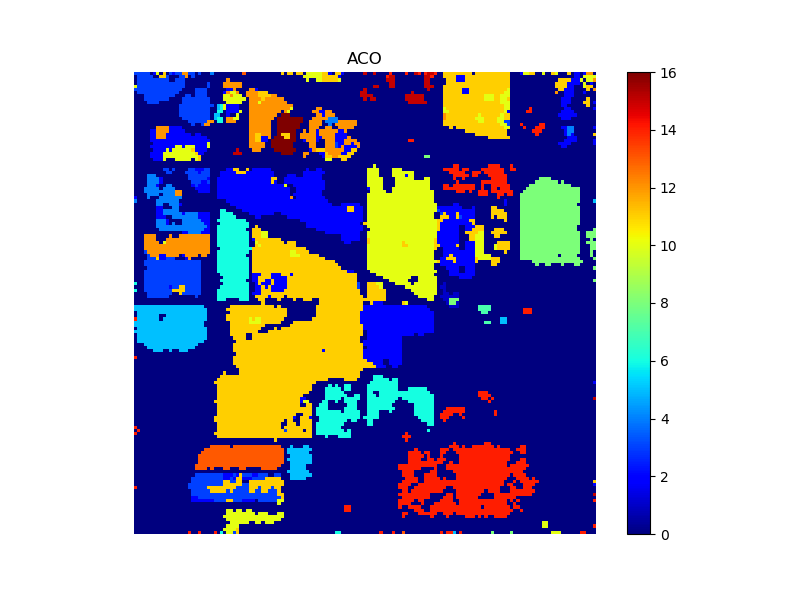
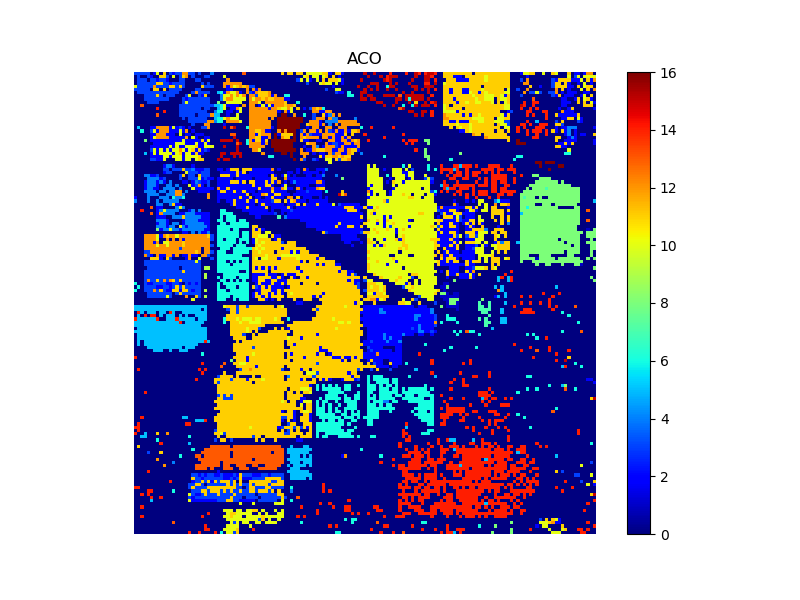
Non-Functional Chages

diff --git a/Auxiliary_Methods.py b/Auxiliary_Methods.py
@@ -60,31 +60,56 @@ def scores(df, y_test_flat, y_pred_flat):
     
     
 def show_gt_classifierMap_ACOMap(df, X, clmap, aco_bool = False, aco_map = None):
-    plt.figure(figsize=(8, 6))
-    plt.imshow(df.iloc[:, -1].values.reshape((X.shape[0], X.shape[0])), cmap='jet')
-    plt.colorbar()
-    plt.axis('off')
-    plt.title('Ground Truth')
-    plt.show()
+    # plt.figure(figsize=(8, 6))
+    # plt.imshow(df.iloc[:, -1].values.reshape((X.shape[0], X.shape[0])), cmap='jet')
+    # plt.colorbar()
+    # plt.axis('off')
+    # plt.title('Ground Truth')
+    # plt.show()
 
-    plt.figure(figsize=(8, 6))
-    plt.imshow(np.array(clmap).reshape((X.shape[0], X.shape[0])), cmap='jet')
-    plt.colorbar()
-    plt.axis('off')
-    plt.title('Classification Map (KNeighborsClassifier)')
-    plt.savefig('Classification_map.png')
-    plt.show()
+    # plt.figure(figsize=(8, 6))
+    # plt.imshow(np.array(clmap).reshape((X.shape[0], X.shape[0])), cmap='jet')
+    # plt.colorbar()
+    # plt.axis('off')
+    # plt.title('Classification Map (KNeighborsClassifier)')
+    # plt.savefig('Classification_map.png')
+    # plt.show()
+    
+    # if aco_bool == True:
+    #     plt.figure(figsize=(8, 6))
+    #     plt.imshow(np.array(aco_map), cmap='jet')
+    #     plt.colorbar()
+    #     plt.axis('off')
+    #     plt.title('ACO')
+    #     plt.savefig('Classification_map.png')
+    #     plt.show()    
+    
+    gt = df.iloc[:, -1].values.reshape((X.shape[0], X.shape[0])) 
+    classifier = np.array(clmap).reshape((X.shape[0], X.shape[0]))
+    if aco_bool == True:
+        aco = np.array(aco_map)
+    
+    rows = 1
+    cols = 3
+    axes=[]
+    fig=plt.figure(figsize=(12, 6))
+    
+    axes.append(fig.add_subplot(rows, cols, 1))
+    axes[-1].set_title("Ground Truth")  
+    plt.imshow(gt, cmap='jet')
+    
+    axes.append(fig.add_subplot(rows, cols, 2))
+    axes[-1].set_title("Classifier k-NN Result")  
+    plt.imshow(classifier, cmap='jet')
     
     if aco_bool == True:
-        plt.figure(figsize=(8, 6))
-        plt.imshow(np.array(aco_map), cmap='jet')
-        plt.colorbar()
-        plt.axis('off')
-        plt.title('ACO')
-        plt.savefig('Classification_map.png')
-        plt.show()        
-            
+        axes.append(fig.add_subplot(rows, cols, 3))
+        axes[-1].set_title("ACO Result")  
+        plt.imshow(aco, cmap='jet')
     
+    fig.tight_layout()    
+    plt.show()
+            
     
 def calcProbab(no_of_classes, i, j, k, tau, eta, alpha = 1, beta = 1):
     p = (tau[i][j][k] ** alpha) * (eta[i][j][k] ** beta)                            
@@ -96,6 +121,7 @@ def calcProbab(no_of_classes, i, j, k, tau, eta, alpha = 1, beta = 1):
     p /= summ    
     return p
         
+
 # am.update_tau_solution_based(tau[i][j][k], p[i][j][k], k, rho, deltaTau)          
 def update_tau_solution_based(tau, p, i, j, k, rho, deltaTau):
     retVal = tau            
@@ -110,6 +136,7 @@ def update_tau_solution_based(tau, p, i, j, k, rho, deltaTau):
         retVal += deltaTau 
         
     return retVal
+
 
 def myScore(gt, clmap, aco_map, test_size):
     matrix_classifier = np.zeros((clmap.shape[0], clmap.shape[0]))
@@ -131,67 +158,76 @@ def myScore(gt, clmap, aco_map, test_size):
     score_classifier = 1 - score_classifier
     score_aco = 1 - score_aco
     
+    score_classifier *= 100
+    score_aco *= 100
+    
     print("Lower is better!")
-    print(f'Classifier accuracy = {score_classifier:.3f}%')
-    print(f'ACO accuracy = {score_aco:.3f}%')
+    print(f'Classifier accuracy = {score_classifier:.2f}%')
+    print(f'ACO accuracy = {score_aco:.2f}%')
     
     return score_classifier, score_aco
   
     
 def computeF(i, j ,k, aco_map, no_of_classes, f):   
-    # if i == 0 and j == 0:
-    #     for a in range(i, i + 2):
-    #         for b in range(j, j + 2):
-    #             if aco_map[a][b] == k:
-    #                 f[k] += 1 
+    if i == 0 and j == 0:
+        for a in range(i, i + 2):
+            for b in range(j, j + 2):
+                if aco_map[a][b] == k:
+                    f[k] += 2 
                     
-    # if i == 0 and j != 0:
-    #     for a in range(i, i + 2):
-    #         for b in range(j - 1, j + 2):
-    #             if aco_map[a][b] == k:
-    #                 f[k] += 1  
+    if i == 0 and j != 0 and j != 144:
+        for a in range(i, i + 2):
+            for b in range(j - 1, j + 2):
+                if aco_map[a][b] == k:
+                    f[k] += 2  
                     
-    # if i != 0 and j == 0:
-    #     for a in range(i - 1, i + 2):
-    #         for b in range(j, j + 2):
-    #             if aco_map[a][b] == k:
-    #                 f[k] += 1
+    if i != 0 and j == 0 and i != 144:
+        for a in range(i - 1, i + 2):
+            for b in range(j, j + 2):
+                if aco_map[a][b] == k:
+                    f[k] += 2
 
-    # if i == 144 and j == 144:
-    #     for a in range(i - 1, i + 1):
-    #         for b in range(j - 1, j + 1):
-    #             if aco_map[a][b] == k:
-    #                 f[k] += 1  
+    if i == 144 and j == 144:
+        for a in range(i - 1, i + 1):
+            for b in range(j - 1, j + 1):
+                if aco_map[a][b] == k:
+                    f[k] += 2  
                     
-    # if i == 144 and j != 144:
-    #     for a in range(i - 1, i + 1):
-    #         for b in range(j - 1, j + 2):
-    #             if aco_map[a][b] == k:
-    #                 f[k] += 1  
+    if i == 144 and j != 144 and j != 0:
+        for a in range(i - 1, i + 1):
+            for b in range(j - 1, j + 2):
+                if aco_map[a][b] == k:
+                    f[k] += 2  
 
-    # if i != 144 and j == 144:
-    #     for a in range(i - 1, i + 2):
-    #         for b in range(j - 1, j + 1):
-    #             if aco_map[a][b] == k:
-    #                 f[k] += 1
+    if i != 144 and j == 144 and i != 0:
+        for a in range(i - 1, i + 2):
+            for b in range(j - 1, j + 1):
+                if aco_map[a][b] == k:
+                    f[k] += 2
 
-    # if i == 0 and j == 144:
-    #     for a in range(i, i + 2):
-    #         for b in range(j - 1, j + 1):
-    #             if aco_map[a][b] == k:
-    #                 f[k] += 1
+    if i == 0 and j == 144:
+        for a in range(i, i + 2):
+            for b in range(j - 1, j + 1):
+                if aco_map[a][b] == k:
+                    f[k] += 2
 
-    # if i == 144 and j == 0:
-    #     for a in range(i - 1, i + 1):
-    #         for b in range(j, j + 2):
-    #             if aco_map[a][b] == k:
-    #                 f[k] += 1                          
+    if i == 144 and j == 0:
+        for a in range(i - 1, i + 1):
+            for b in range(j, j + 2):
+                if aco_map[a][b] == k:
+                    f[k] += 2   
+
+    if i != 0 and i != 144 and j != 0 and j != 144:
+        for a in range(i - 1, i + 2):
+            for b in range(j - 1, j + 2):
+                if aco_map[a][b] == k:
+                    f[k] += 2                     
                     
         
-    for a in range(i - 1, i + 2):
-        for b in range(j - 1, j + 2):
-            if aco_map[a][b] == k:
-                f[k] += 1
+    # for a in range(i - 1, i + 2):
+    #     for b in range(j - 1, j + 2):
+    #         if aco_map[a][b] == k:
+    #             f[k] += 1
     return f[k]
     
 

diff --git a/Core.py b/Core.py
@@ -46,9 +46,9 @@ for i in tqdm(range(len(indices_test_flat))):
 """ 
 Pseudocode
 
-1) Set training data - done
+1) Set training data
     
-2) Classify using standard classifier - done
+2) Classify using standard classifier
     
 3) Determine heuristic function eta 
     
@@ -82,8 +82,8 @@ Pseudocode
                 { 0, otherwise 
                     
 8) Update tau based on neighbours:
-    tau[i][j] += f[i][j] / 2
-    f[i][j] = no. of edges being j in the vicinity of pixel i
+    tau[i][j] += f[i][j]
+    where f[i][j] = no. of edges being j, in the vicinity of pixel i
     
 9) repeat from step 5 until desired no. of iterations has passed
     
@@ -111,7 +111,7 @@ p = np.ones((aco_map.shape[0], aco_map.shape[0], no_of_classes.size))/17
 
 # no loop for epochs yet
 epochs = 1
-alpha, beta, rho, deltaTau, epochs = 8, 1, 0.5, 1, 3
+alpha, beta, rho, deltaTau, epochs = 1.8, 0.2, 0.5, 1, 8
 
 # x, y = pixel coordinates, k = edge/class
 for ep in range(epochs):
@@ -122,9 +122,8 @@ for ep in range(epochs):
                 p[i][j][k] = am.calcProbab(no_of_classes, i, j, k, tau, eta, alpha, beta)                                                                                                                  
             
             for k in range(no_of_classes.size):                
-                tau[i][j][k] = am.update_tau_solution_based(tau[i][j][k], p, i, j, k, rho, deltaTau)                                                                          
-                if i > 0 and j > 0 and i < 144 and j < 144:   
-                    f[k] = am.computeF(i, j ,k, aco_map, no_of_classes, f)                        
+                tau[i][j][k] = am.update_tau_solution_based(tau[i][j][k], p, i, j, k, rho, deltaTau)                                                                                           
+                f[k] = am.computeF(i, j ,k, aco_map, no_of_classes, f)                        
                 tau[i][j][k] += f[k]
             
             #ant_choice = np.random.choice(np.array(range(17)), p = p[i][j])
